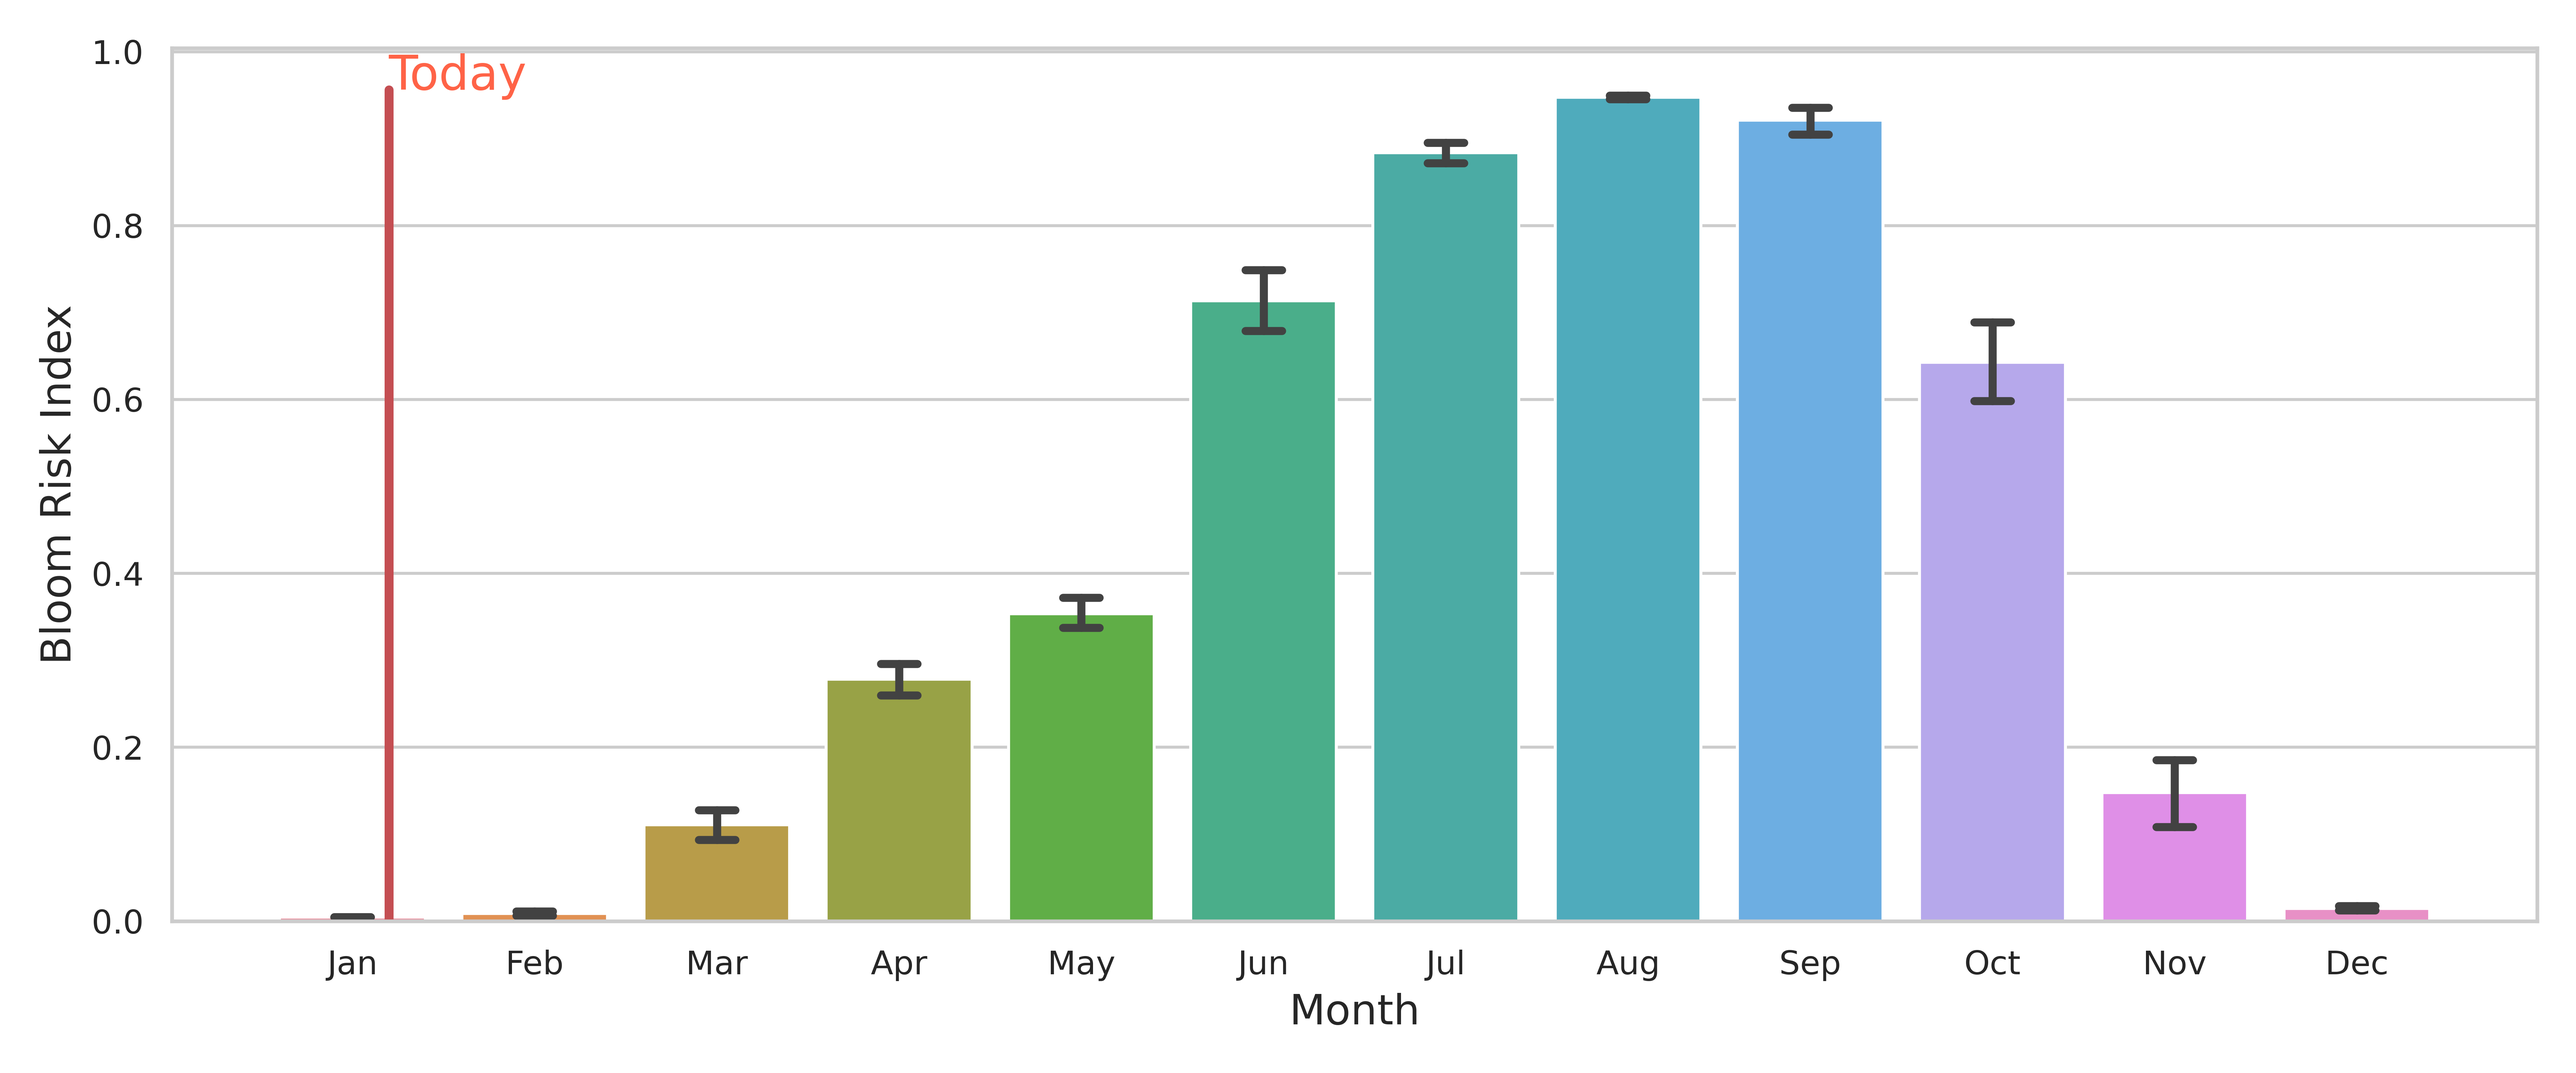
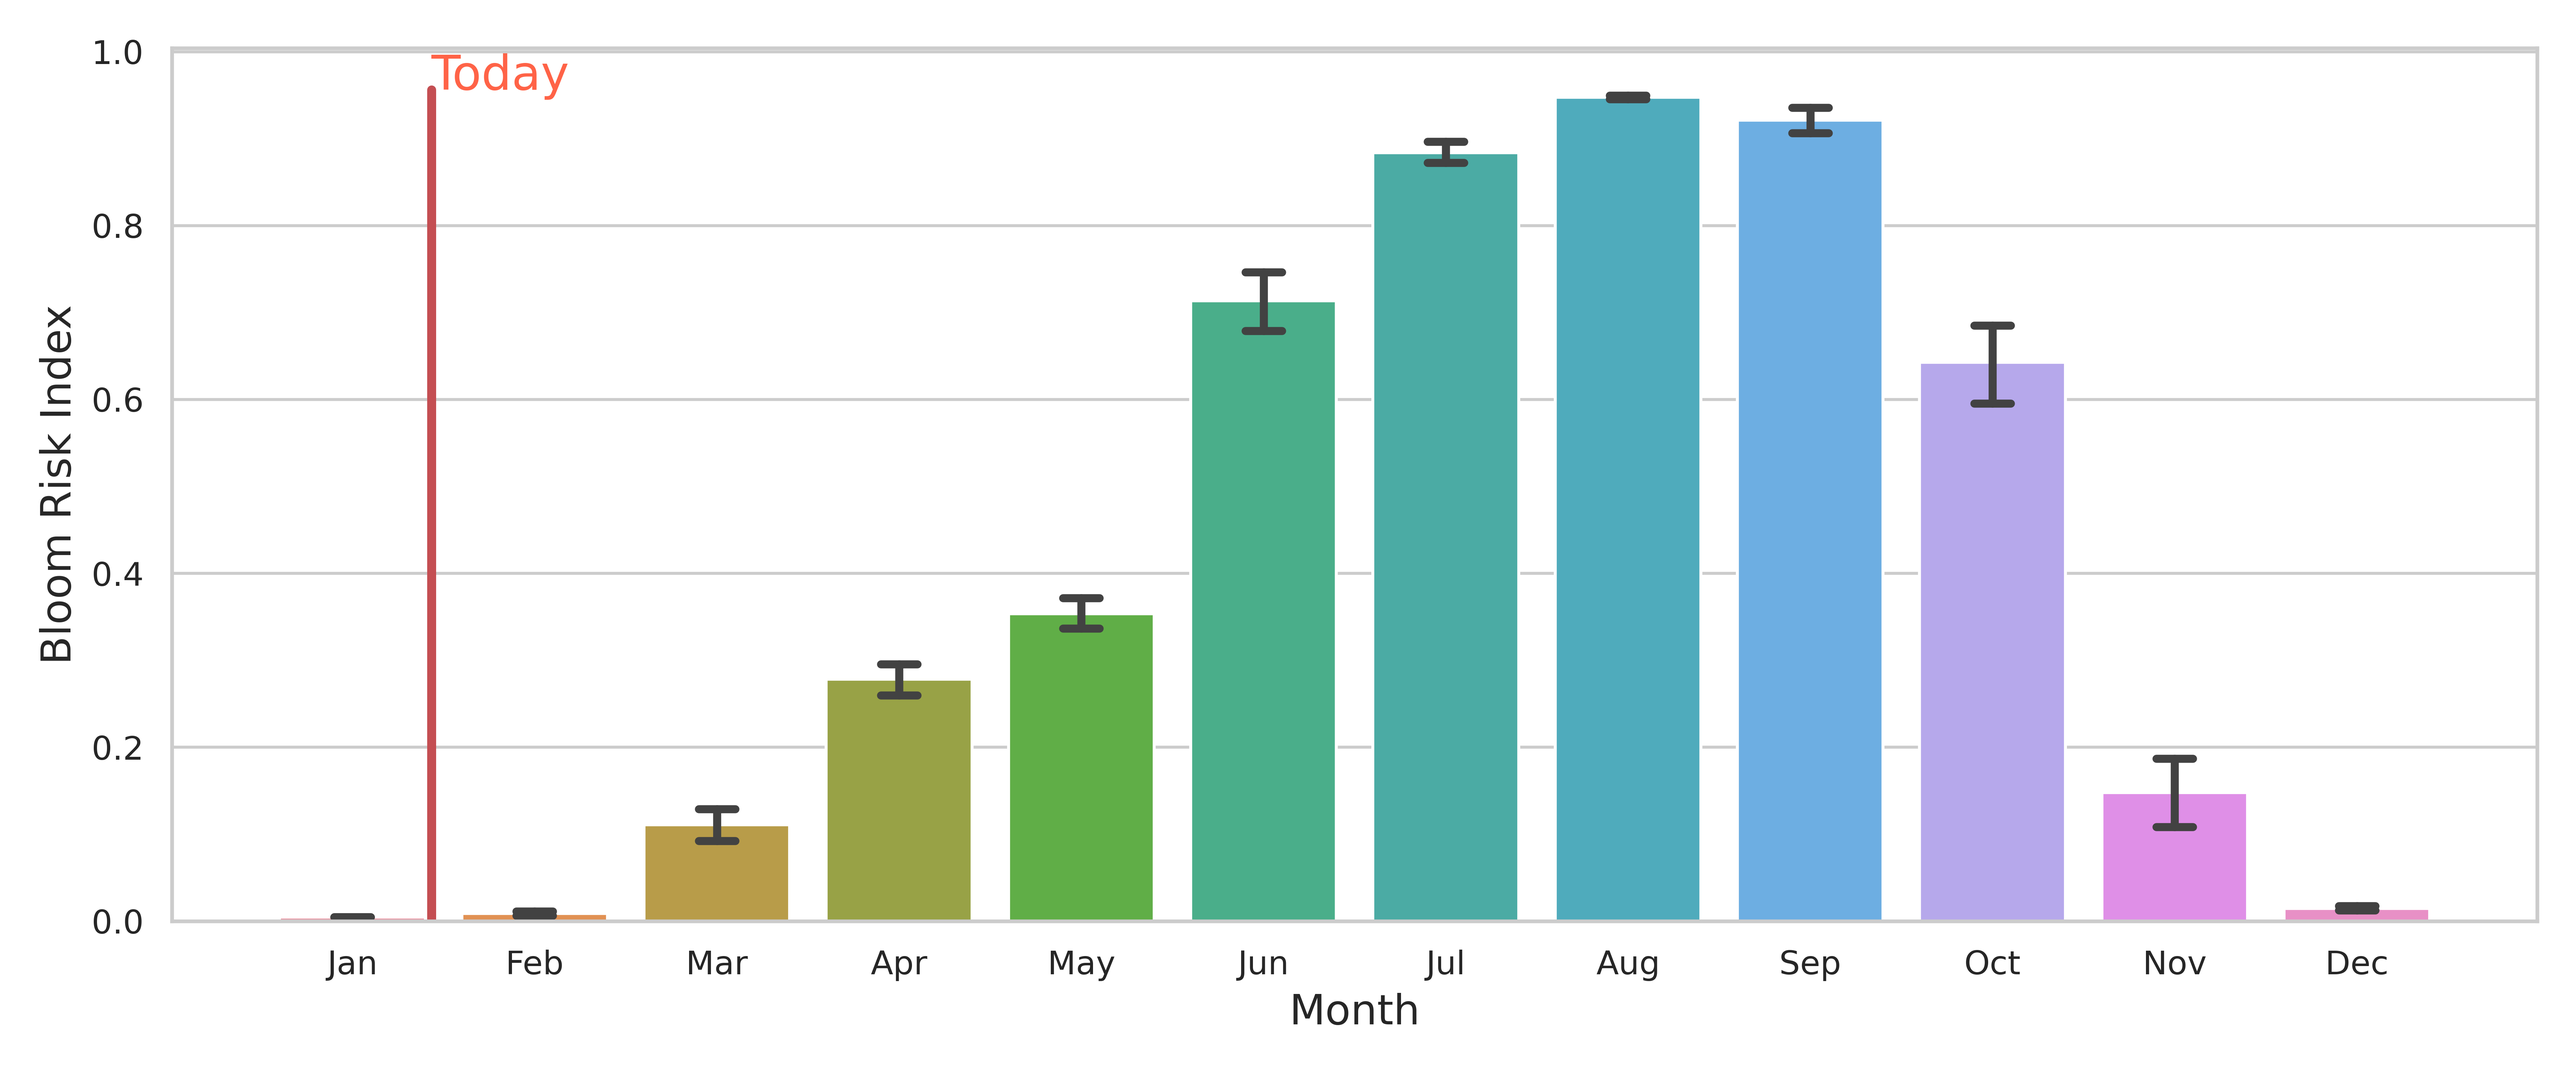
daily blog update

Changed region(s): [[0.125, 0.031, 0.2188, 0.837], [0.75, 0.279, 0.7812, 0.31]]

diff --git a/index.md b/index.md
@@ -1,5 +1,5 @@
 ---
-title: "Jan 06, 2025"
+title: "Jan 13, 2025"
 excerpt: "HAB update"
 image: /assets/images/tappan.jpg
 tags: 
@@ -11,34 +11,34 @@ Click here to see the live and interactive [Harmful Algal Bloom dashboard](https
 
 ## 7-day Look Ahead Bloom Forecast
 Below are pie charts describing the __probability of a cyanobacterial bloom__. The chart on the left describes the predictions from two weeks ago, and the one on the right describes the latest prediction, for the coming week. 
-![image-center]({{ site.url }}{{ site.baseurl }}/assets/images/20250106/Fig_prediction.png)
+![image-center]({{ site.url }}{{ site.baseurl }}/assets/images/20250113/Fig_prediction.png)
 __Probabilities of occurrence (%) of an algal bloom from two weeks ago (left) and for the next 7 days (right).__
 
 ## Hotspot Analysis - Chlorophyll-a
 This map shows you the latest estimates of __chlorophyll-a__ from the Sentinel 2a satellite. Note that the color scale is normalized to highlight the hotspots in the image. The colorscale does not provide an indication of the absolute amount of chlorophyll-a in the water and should be interpreted as an "index" of chlorophyll-a.
-![image-center]({{ site.url }}{{ site.baseurl }}/assets/images/20250106/Fig_chla.png){: .align-center}
+![image-center]({{ site.url }}{{ site.baseurl }}/assets/images/20250113/Fig_chla.png){: .align-center}
 <br clear="all" />
 __Latest chlorophyll-a map from the Sentinel 2a satelllite.__
 
 ## Hotspot Analysis - CyAN
 This map shows you the latest estimates of the concentration of cyanobacteria (cells/ml) from the EPA CyAN program.
-![image-center]({{ site.url }}{{ site.baseurl }}/assets/images/20250106/Fig_cyan.png){: .align-center}
+![image-center]({{ site.url }}{{ site.baseurl }}/assets/images/20250113/Fig_cyan.png){: .align-center}
 <br clear="all" />
 __Latest CyAN map from the EPA.__
 
 ## Where we are in the season
 This plot shows the __historical expectation for HAB risk__ over the year. Use this chart to see where we are in the season (identified by the vertical red line). 
-![image-center]({{ site.url }}{{ site.baseurl }}/assets/images/20250106/Fig_climatology.png){: .     align-center}
+![image-center]({{ site.url }}{{ site.baseurl }}/assets/images/20250113/Fig_climatology.png){: .     align-center}
 __Harmful algal bloom risk over the year__.
 
 ## How rainy has it been? 
 We know that in general certain weather conditions promote the likelihood of HABs. Check this chart to see 
 how __wet__ it is, relative to past years. This is simply adding up each day's rainfall, for each year. If the red line is below the orange line, then this year is dryer than average.
-![image-center]({{ site.url }}{{ site.baseurl }}/assets/images/20250106/Fig_precip_cumsum.png){: .     align-center}
+![image-center]({{ site.url }}{{ site.baseurl }}/assets/images/20250113/Fig_precip_cumsum.png){: .     align-center}
 __Precipitation at the lake compared to previous years__.
 
 ## How hot has it been? 
 We know that in general certain weather conditions promote the likelihood of HABs. Check this chart to see 
 how __hot__ it is, relative to past years. This is simply adding up each day's temperature, for each year. If the red line is above the orange line, this year is hotter than average.
-![image-center]({{ site.url }}{{ site.baseurl }}/assets/images/20250106/Fig_temp_cumsum.png){: .     align-center}
+![image-center]({{ site.url }}{{ site.baseurl }}/assets/images/20250113/Fig_temp_cumsum.png){: .     align-center}
 __Air temperature at the lake compared to previous years__.

diff --git a/_posts/2025-01-13-blog055.md b/_posts/2025-01-13-blog055.md
@@ -1,0 +1,44 @@
+---
+title: "Jan 13, 2025"
+excerpt: "HAB update"
+image: /assets/images/tappan.jpg
+tags: 
+  - hab
+  - prediction
+---
+
+Click here to see the live and interactive [Harmful Algal Bloom dashboard](https://tappan.clrwater.io/).
+
+## 7-day Look Ahead Bloom Forecast
+Below are pie charts describing the __probability of a cyanobacterial bloom__. The chart on the left describes the predictions from two weeks ago, and the one on the right describes the latest prediction, for the coming week. 
+![image-center]({{ site.url }}{{ site.baseurl }}/assets/images/20250113/Fig_prediction.png)
+__Probabilities of occurrence (%) of an algal bloom from two weeks ago (left) and for the next 7 days (right).__
+
+## Hotspot Analysis - Chlorophyll-a
+This map shows you the latest estimates of __chlorophyll-a__ from the Sentinel 2a satellite. Note that the color scale is normalized to highlight the hotspots in the image. The colorscale does not provide an indication of the absolute amount of chlorophyll-a in the water and should be interpreted as an "index" of chlorophyll-a.
+![image-center]({{ site.url }}{{ site.baseurl }}/assets/images/20250113/Fig_chla.png){: .align-center}
+<br clear="all" />
+__Latest chlorophyll-a map from the Sentinel 2a satelllite.__
+
+## Hotspot Analysis - CyAN
+This map shows you the latest estimates of the concentration of cyanobacteria (cells/ml) from the EPA CyAN program.
+![image-center]({{ site.url }}{{ site.baseurl }}/assets/images/20250113/Fig_cyan.png){: .align-center}
+<br clear="all" />
+__Latest CyAN map from the EPA.__
+
+## Where we are in the season
+This plot shows the __historical expectation for HAB risk__ over the year. Use this chart to see where we are in the season (identified by the vertical red line). 
+![image-center]({{ site.url }}{{ site.baseurl }}/assets/images/20250113/Fig_climatology.png){: .     align-center}
+__Harmful algal bloom risk over the year__.
+
+## How rainy has it been? 
+We know that in general certain weather conditions promote the likelihood of HABs. Check this chart to see 
+how __wet__ it is, relative to past years. This is simply adding up each day's rainfall, for each year. If the red line is below the orange line, then this year is dryer than average.
+![image-center]({{ site.url }}{{ site.baseurl }}/assets/images/20250113/Fig_precip_cumsum.png){: .     align-center}
+__Precipitation at the lake compared to previous years__.
+
+## How hot has it been? 
+We know that in general certain weather conditions promote the likelihood of HABs. Check this chart to see 
+how __hot__ it is, relative to past years. This is simply adding up each day's temperature, for each year. If the red line is above the orange line, this year is hotter than average.
+![image-center]({{ site.url }}{{ site.baseurl }}/assets/images/20250113/Fig_temp_cumsum.png){: .     align-center}
+__Air temperature at the lake compared to previous years__.
